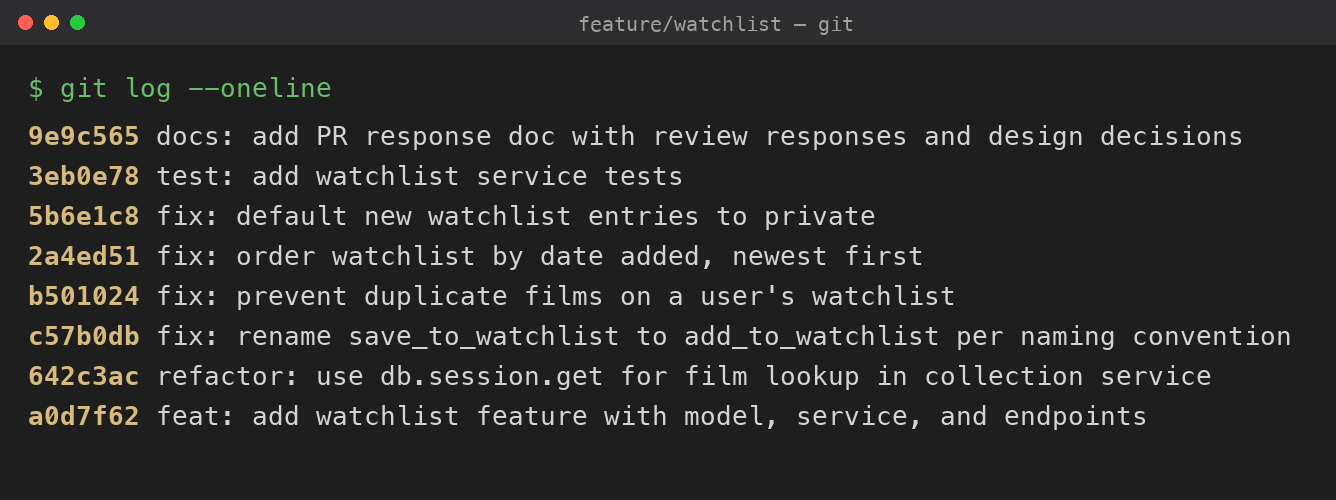
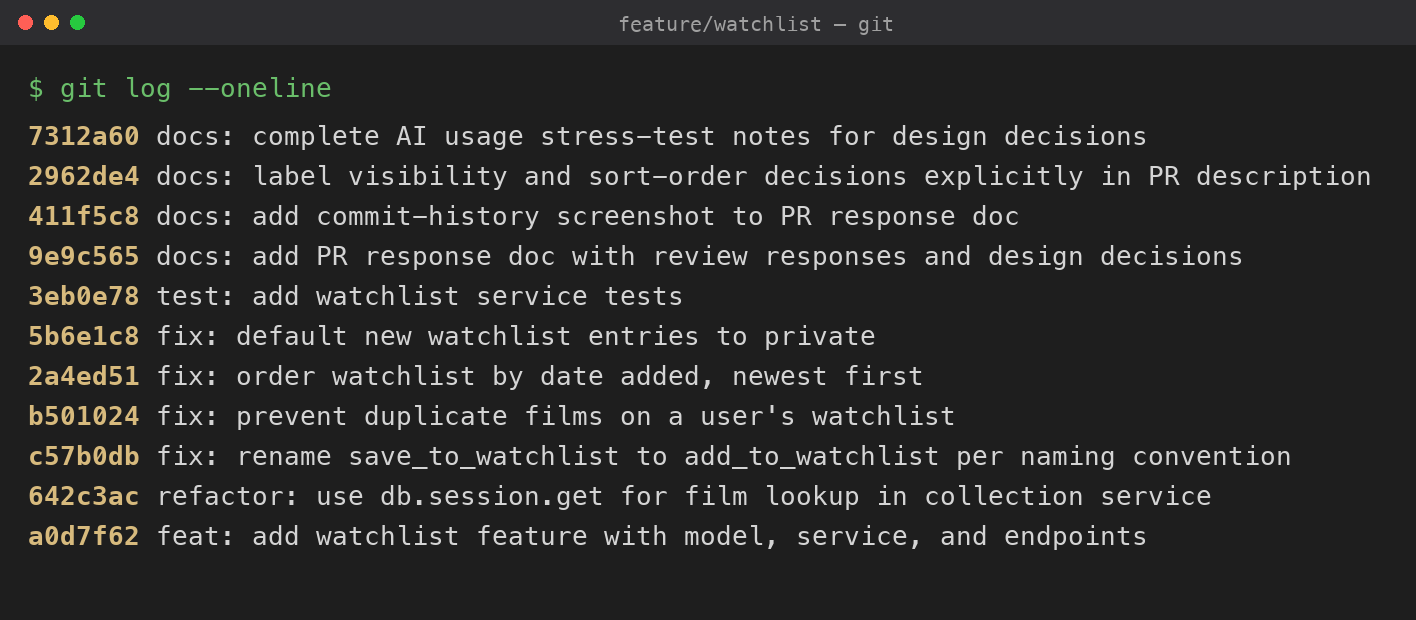
docs: refresh commit-history screenshot and count in PR response doc

diff --git a/pr-response.md b/pr-response.md
@@ -10,12 +10,15 @@
   - _Comment 5 (sort order):_ The pass raised: (1) **recency ≠ priority** — a film added months ago that the user keeps meaning to watch may matter more than an impulse add, so newest-first can bury long-standing intent; (2) **no tiebreaker** — `date_added.desc()` is nondeterministic when timestamps tie (e.g. a bulk insert); and (3) that the "consistency with `get_collection`" argument is weaker than stated, since a to-watch list and an already-watched list are semantically different. What I changed: I added the explicit case *for* alphabetical and proposed a future user-selectable sort (`?sort=`) as the real answer to the lookup/priority case, so the decision engages the tradeoff rather than just asserting a preference. I noted the missing tiebreaker as a genuine follow-up (not implemented in this PR). I held date-added-newest-first as the default.
 
 ## Commit History
-Clean, linear history — eight single-purpose commits with Conventional Commits messages (`feat`/`fix`/`refactor`/`test`/`docs`) and no merge commits:
+Clean, linear history — every commit is a single logical change with a Conventional Commits message (`feat`/`fix`/`refactor`/`test`/`docs`), and there are no merge commits. The feature and its six review responses are the bottom eight commits; the trailing `docs:` commits refine this response document itself.
 
 ![git log --oneline of the feature/watchlist branch](commit-history.png)
 
 ```text
 $ git log --oneline
+7312a60 docs: complete AI usage stress-test notes for design decisions
+2962de4 docs: label visibility and sort-order decisions explicitly in PR description
+411f5c8 docs: add commit-history screenshot to PR response doc
 9e9c565 docs: add PR response doc with review responses and design decisions
 3eb0e78 test: add watchlist service tests
 5b6e1c8 fix: default new watchlist entries to private
